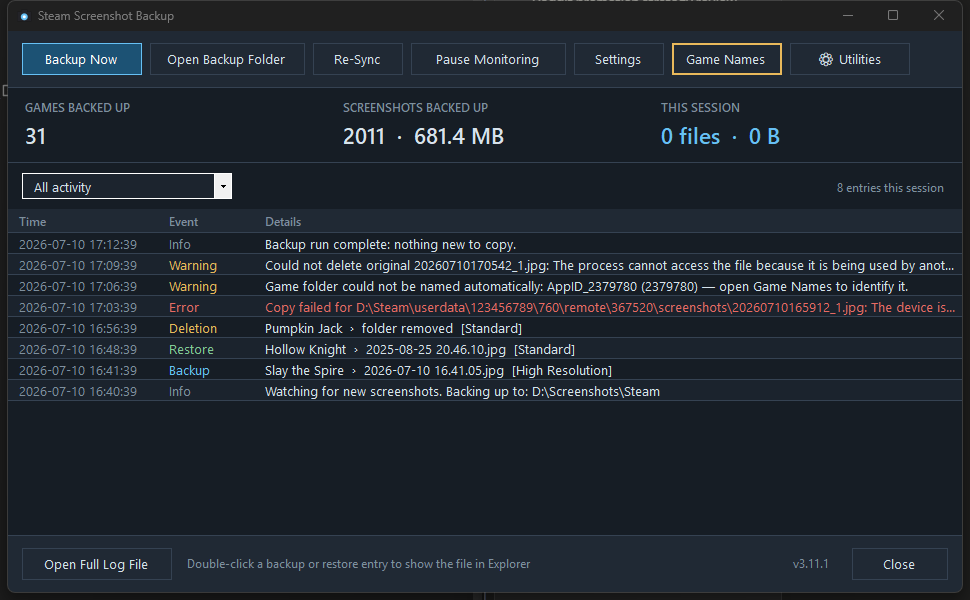
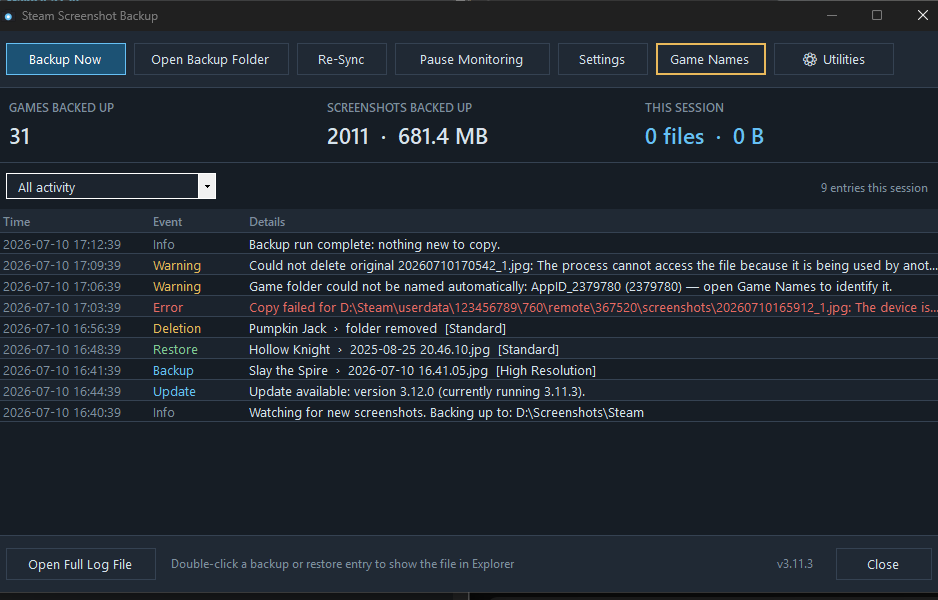
v3.11.3: color-code update notices, gray out update-check when offline
Added a dedicated LogLevel.Update so "Update available" entries get their
own accent color in the activity feed instead of blending in with plain
Info entries.

Offline mode already skipped update checks at runtime; the "Automatically
check for new versions" checkbox now grays out to make that visible too,
both in Settings (live, on toggling Offline mode) and in the installer's
task list (when "Offline mode" is selected, "Turn off automatic update
checks" is forced on and disabled).

Preview Import's list view already had the FlatListView fix from 3.11.1
(verified: no column-divider artifact even with a single row), so no
code change was needed there - just regenerated its stale screenshot.

Also added vt-scan.ps1 for API-based VirusTotal scanning of release
artifacts (checks by hash first, uploads only if unseen).

diff --git a/app/MainWindow.cs b/app/MainWindow.cs
@@ -488,7 +488,7 @@ namespace SteamScreenshotBackup
             2 => e.Level == LogLevel.Restore,
             3 => e.Level == LogLevel.Deletion,
             4 => e.Level == LogLevel.Warning || e.Level == LogLevel.Error,
-            5 => e.Level == LogLevel.Info,
+            5 => e.Level == LogLevel.Info || e.Level == LogLevel.Update,
             _ => true
         };
 
@@ -521,6 +521,7 @@ namespace SteamScreenshotBackup
                 LogLevel.Deletion => "Deletion",
                 LogLevel.Warning => "Warning",
                 LogLevel.Error => "Error",
+                LogLevel.Update => "Update",
                 _ => "Info"
             };
             var item = new ListViewItem(e.Time.ToString("yyyy-MM-dd HH:mm:ss")) { Tag = e };
@@ -549,6 +550,7 @@ namespace SteamScreenshotBackup
             LogLevel.Deletion => Theme.Warning,
             LogLevel.Warning => Theme.Warning,
             LogLevel.Error => Theme.Error,
+            LogLevel.Update => Theme.Accent,
             _ => Theme.TextDim
         };
 

diff --git a/app/Logger.cs b/app/Logger.cs
@@ -5,7 +5,7 @@ using System.Text.RegularExpressions;
 
 namespace SteamScreenshotBackup
 {
-    internal enum LogLevel { Info, Backup, Restore, Deletion, Warning, Error }
+    internal enum LogLevel { Info, Backup, Restore, Deletion, Warning, Error, Update }
 
     internal class LogEntry
     {
@@ -51,6 +51,7 @@ namespace SteamScreenshotBackup
         public static void Backup(string message, string filePath) => Write(LogLevel.Backup, message, filePath);
         public static void Restore(string message, string filePath) => Write(LogLevel.Restore, message, filePath);
         public static void Deletion(string message, string filePath) => Write(LogLevel.Deletion, message, filePath);
+        public static void UpdateAvailable(string message) => Write(LogLevel.Update, message);
 
         public static LogEntry[] Snapshot()
         {

diff --git a/app/SettingsWindow.cs b/app/SettingsWindow.cs
@@ -212,6 +212,11 @@ namespace SteamScreenshotBackup
             Hint("A read-only check against this project's GitHub releases page \u2014 no data\n" +
                  "about you or your files is sent, just a request for the latest version number.");
             y += 44;
+
+            // Offline mode already skips update checks at runtime (see TrayContext);
+            // gray this out too so the UI doesn't imply it does something on its own.
+            _checkForUpdates.Enabled = !_offlineMode.Checked;
+            _offlineMode.CheckedChanged += (s, e) => _checkForUpdates.Enabled = !_offlineMode.Checked;
 #endif
             int generalBottom = y;
 

diff --git a/app/TrayContext.cs b/app/TrayContext.cs
@@ -264,7 +264,7 @@ namespace SteamScreenshotBackup
 
             _settings.LastNotifiedUpdateVersion = info.Version;
             _settings.Save();
-            Logger.Log($"Update available: version {info.Version} (currently running {UpdateChecker.CurrentVersion}).");
+            Logger.UpdateAvailable($"Update available: version {info.Version} (currently running {UpdateChecker.CurrentVersion}).");
             Notify(6000,
                 $"Version {info.Version} is available \u2014 use \"Check for Updates Now\" to view it.",
                 ToolTipIcon.Info);

diff --git a/README.md b/README.md
@@ -105,8 +105,9 @@ Steam Screenshots/
 - **Update checks.** Optionally checks this project's GitHub releases once a
   day and lets you know if a newer version is out (a Settings toggle or an
   installer checkbox to turn it off), plus a manual **Check for Updates Now**
-  button in the tray menu and Utilities. Off automatically in Offline mode,
-  and not present at all in the offline-only portable build.
+  button in the tray menu and Utilities. Off automatically in Offline mode
+  (its checkbox grays out in both Settings and the installer to make that
+  clear), and not present at all in the offline-only portable build.
 - **Dark and light themes**, or follow the Windows setting.
 - **Statistics**: total games, screenshots, and data, plus per-session counters.
 
